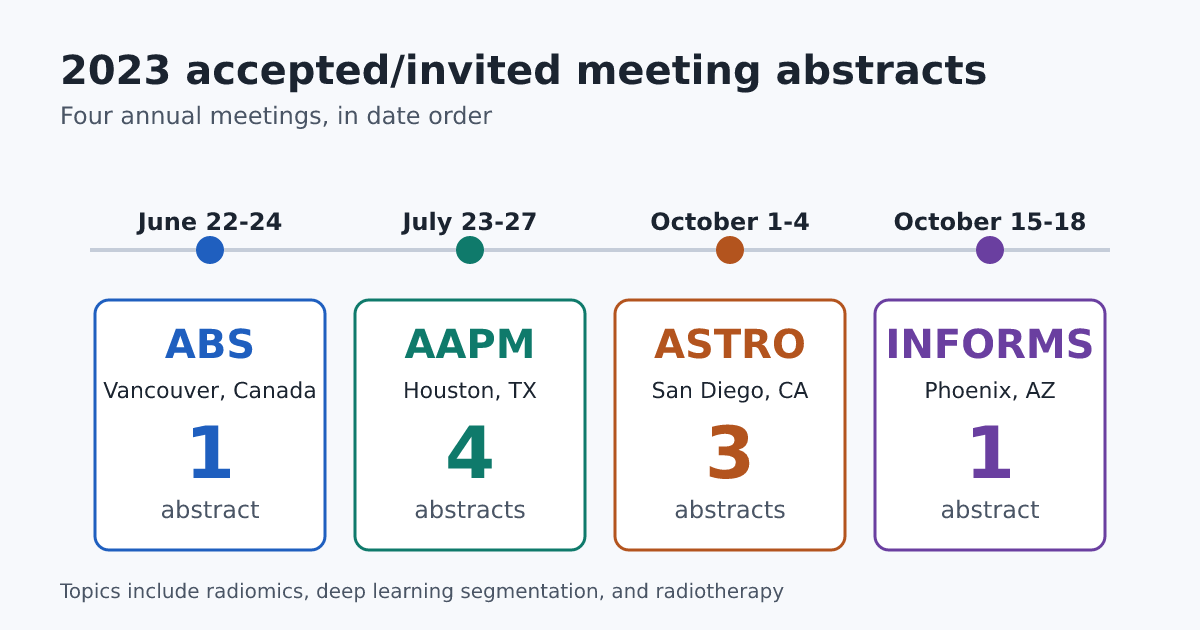
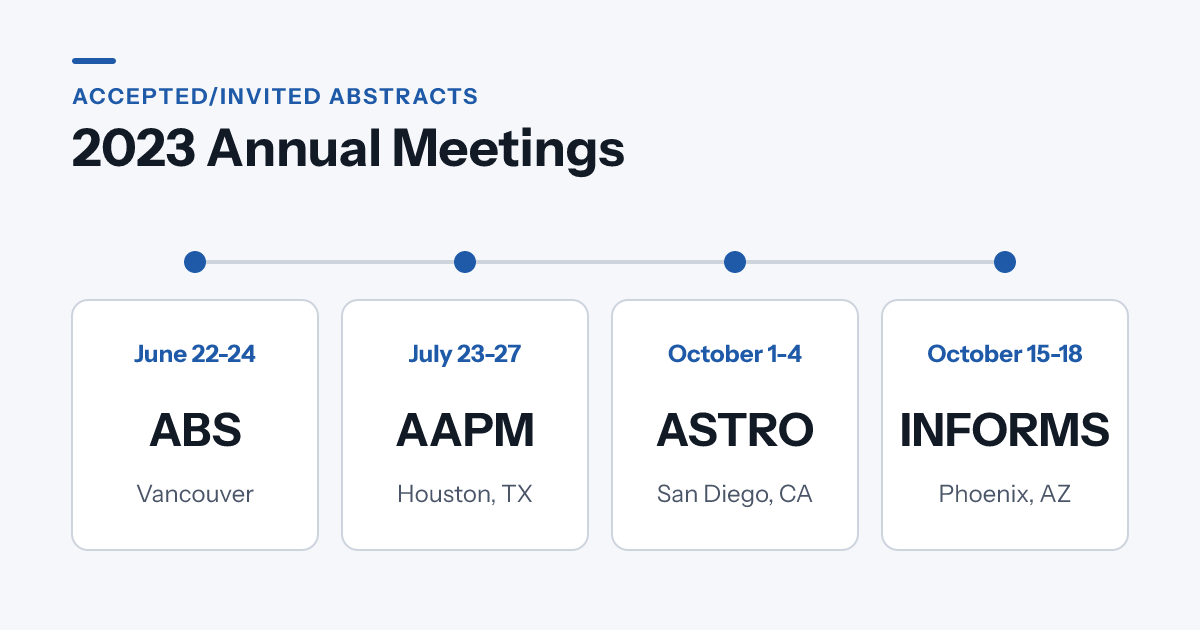
Unify post covers into one design set and add an ASTRO 2026 cover (#18)
Redraw the five diagram covers from #16 with a shared palette (one blue
accent, two neutrals, AA contrast), one type scale and grid, and
Instrument Sans. Each cover keeps one key idea at title size and drops
detail that was unreadable as a list thumbnail. Add a cover for the
ASTRO 2026 post that groups its six abstracts by role, with no results.

Changed region(s): [[0.0617, 0.3317, 0.925, 0.8746], [0.0308, 0.0905, 0.8325, 0.3016], [0.0617, 0.9349, 0.6475, 0.9651]]

diff --git a/content/posts/2026-10-01-astro-2026-abstracts-boston/index.md b/content/posts/2026-10-01-astro-2026-abstracts-boston/index.md
@@ -15,6 +15,10 @@ tags:
   - "Plan Quality"
   - "MR-guided Radiotherapy"
   - "PET/CT"
+cover:
+  image: "images/astro-2026-abstracts-by-role.png"
+  alt: "The six ASTRO 2026 abstracts grouped by Choi's role: as PI, longitudinal CBCT survival prediction, a BEST of Physics oral with an abstract award; as senior author, PET radiomics cardiac risk, plan quality cohort size, and TRACER cardiac event extraction; in data and infrastructure, MR-guided tumor tracking and LLM triage of bone metastases"
+  relative: true
 aliases:
   - /2026/10/01/astro-2026-abstracts-boston/
 description: "Six abstracts from our collaborations appear in the ASTRO 2026 supplement of the Red Journal: longitudinal CBCT survival prediction, PET radiomics for cardiac risk, plan quality scoring, LLM-based EHR extraction, MR-guided tumor tracking, and bone metastasis case-finding."

diff --git a/content/posts/2026-05-24-announcing-gemini-gem-for-computational-medical-physics/index.md b/content/posts/2026-05-24-announcing-gemini-gem-for-computational-medical-physics/index.md
@@ -16,7 +16,7 @@ tags:
   - "Radiomics"
 cover:
   image: "images/gem-four-pillars.png"
-  alt: "The Computational Medical Physicist Gem and its four pillars: image processing and deep learning, dosimetry and radiomics, clinical guidelines and protocol QA, and Monte Carlo transport simulations"
+  alt: "The Computational Medical Physicist Gem and its four primary pillars: image processing and deep learning, dosimetry and radiomics, clinical guidelines and protocol QA, and Monte Carlo and radiation transport simulations"
   relative: true
 aliases:
   - /2026/05/24/announcing-gemini-gem-for-computational-medical-physics/

diff --git a/content/posts/2026-07-27-selected-nci-ai-embeddings-innovation-lab/index.md b/content/posts/2026-07-27-selected-nci-ai-embeddings-innovation-lab/index.md
@@ -14,7 +14,7 @@ tags:
   - "Precision Medicine"
 cover:
   image: "images/nci-embeddings-lab-process.png"
-  alt: "Diagram of the NCI AI Embeddings Innovation Lab process: Town Halls on April 8-9, 2026, a Convergence Session on April 23, then the Innovation Lab, with an orientation on July 23 and five days from July 28 to August 6"
+  alt: "NCI AI Embeddings Innovation Lab process: Town Halls on April 8-9, 2026, then a Convergence Session on April 23, then the Innovation Lab of five intensive days"
   relative: true
 aliases:
   - /2026/07/27/selected-nci-ai-embeddings-innovation-lab/

diff --git a/content/posts/2021-12-22-hiring-a-post-doctoral-fellow/index.md b/content/posts/2021-12-22-hiring-a-post-doctoral-fellow/index.md
@@ -12,7 +12,7 @@ tags:
   - "radiomics"
 cover:
   image: "images/postdoc-position-card.png"
-  alt: "Card summarizing the postdoctoral fellow position: Department of Radiation Oncology, 2-year term, PI Wookjin Choi, Ph.D. required in a related field"
+  alt: "Hiring a Postdoctoral Fellow in the Department of Radiation Oncology: developing clinically interpretable medical imaging AI in radiation therapy, with radiomics, deep learning and outcome prediction, a 2-year position with PI Wookjin Choi, Ph.D."
   relative: true
 aliases:
   - /2021/12/22/hiring-a-post-doctoral-fellow/

diff --git a/content/posts/2026-08-31-jefferson-investigates-features-tracer/index.md b/content/posts/2026-08-31-jefferson-investigates-features-tracer/index.md
@@ -14,7 +14,7 @@ tags:
   - "Open Source"
 cover:
   image: "images/tracer-pipeline.png"
-  alt: "TRACER pipeline: unstructured electronic health records go through an open-source LLM with a prompting framework to yield cardiac events; manual review took about 2 hours per chart versus 20 to 42 seconds for the LLM"
+  alt: "TRACER time per chart in the 411-patient cohort: manual review took roughly two hours, the open-source LLM pipeline took 20 to 42 seconds"
   relative: true
 aliases:
   - /2026/08/31/jefferson-investigates-features-tracer/

diff --git a/content/posts/2023-05-08-2023-accepted-invited-annual-meeting-abstracts/index.md b/content/posts/2023-05-08-2023-accepted-invited-annual-meeting-abstracts/index.md
@@ -23,7 +23,7 @@ tags:
   - "toxicity"
 cover:
   image: "images/2023-meetings-abstracts.png"
-  alt: "Timeline of four 2023 annual meetings: ABS in Vancouver with 1 abstract, AAPM in Houston with 4, ASTRO in San Diego with 3, and INFORMS in Phoenix with 1"
+  alt: "Timeline of the 2023 annual meetings: ABS in Vancouver on June 22-24, AAPM in Houston on July 23-27, ASTRO in San Diego on October 1-4, and INFORMS in Phoenix on October 15-18"
   relative: true
 aliases:
   - /2023/05/08/2023-accepted-invited-annual-meeting-abstracts/
